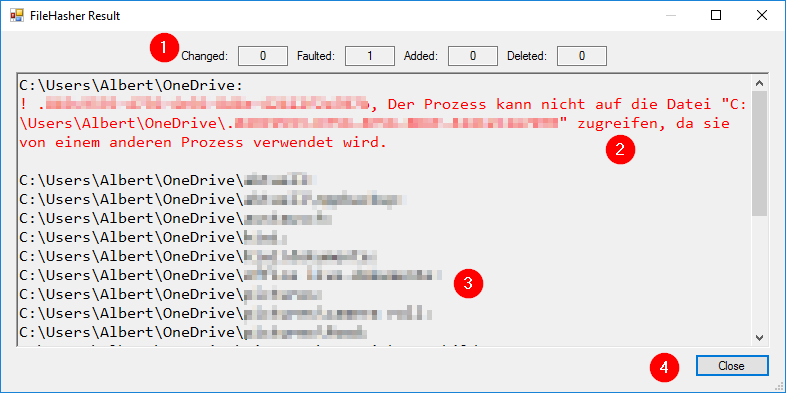
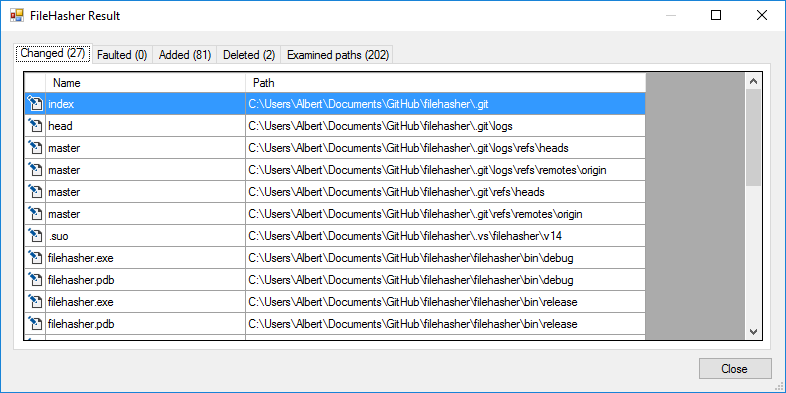
Documentation adapted.

diff --git a/README.md b/README.md
@@ -19,9 +19,8 @@ scan process can be stopped at any time with the cancel button.
 
 ![MainForm progress](./Images/MainForm2.png)
 
-After the scan process has finished, the result view opens. In the top of the
-window (1) you can see how many files are changed and how many files can not
-be checked. Also the count of added and deleted file is shown. In the textbox
-below you can see a detailed report of the scan.
+After the scan process has finished, the result view opens.
+The result is grouped in several categories.
+In each category is a detailed list of the affected items.
 
 ![ResultForm](./Images/ResultForm.png)
